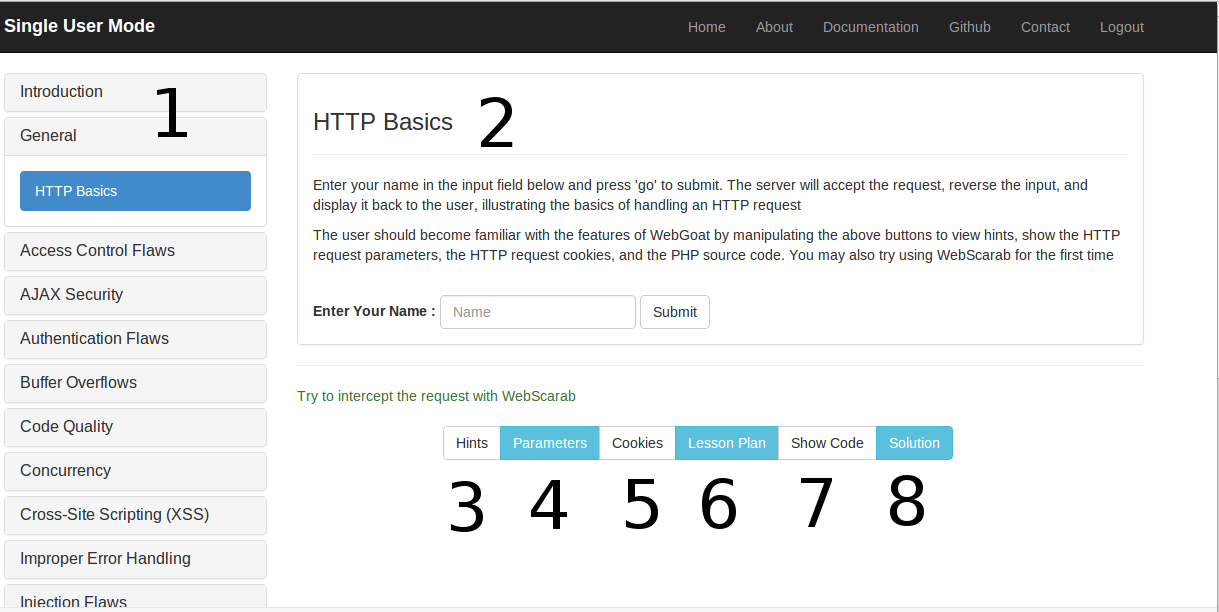
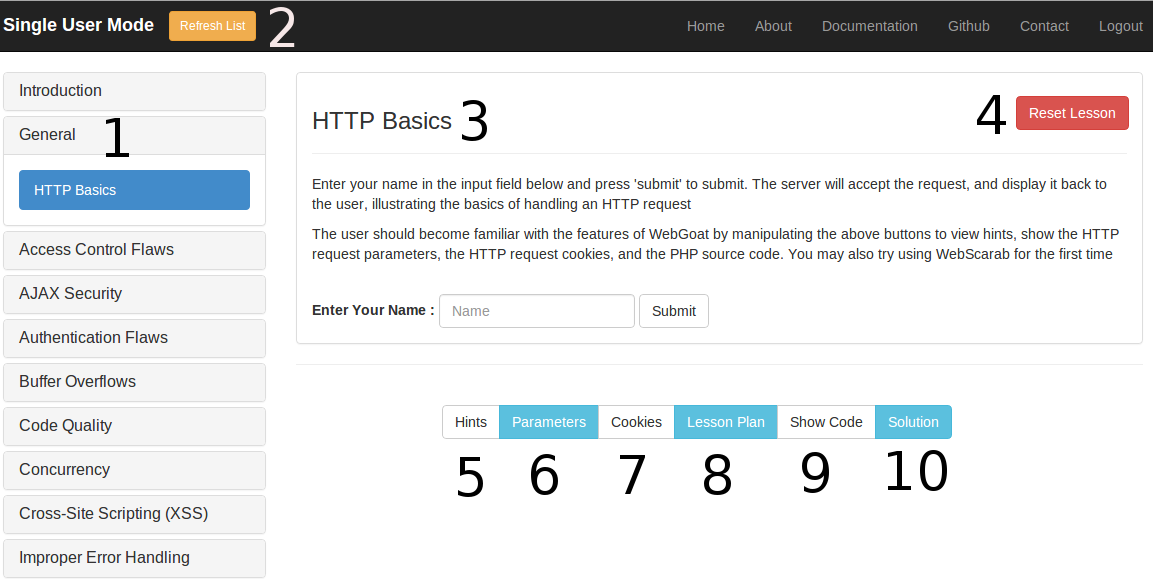
Updated interface of WebGoatPHP Introduction lesson

diff --git a/challenges/WebGoatIntro/content.html b/challenges/WebGoatIntro/content.html
@@ -8,18 +8,19 @@
 <img src="static/interface.png" alt="WebGoatPHP Interface" class="img-responsive">
 
 <br>
-<p>1. List of all the lesson categories and lessons.</p>
-<p>2. Content of the lesson</p>
-<p>3. Get random hints of the lesson</p>
-<p>4. This will show GET parameters</p>
-<p>5. This will show the COOKIES</p>
-<p>6. Get the plan of the lesson</p>
-<p>7. Get the source code of the lesson</p>
-<p>8. This will show the solution of the lesson</p>
+<p><strong>1.</strong> List of all the lessons and their categories.</p>
+<p><strong>2.</strong> To refresh the list of lessons and categories (if a new lesson/category is added)</p>
+<p><strong>3.</strong> Content of the lesson</p>
+<p><strong>4.</strong> Reset the lesson to inital state</p>
+<p><strong>5.</strong> Get random hints of the lesson</p>
+<p><strong>6.</strong> This will show GET parameters</p>
+<p><strong>7.</strong> This will show the COOKIES</p>
+<p><strong>8.</strong> Get the plan of the lesson</p>
+<p><strong>9.</strong> Get the source code of the lesson</p>
+<p><strong>10.</strong> This will show the solution of the lesson</p>
 <br>
-<h4>Solve the Lesson</h4>
+<h4>Solving a Lesson</h4>
 <p>Always start with the lessons plan. Then try to solve the lesson and if necessary, use the hints.
     The last hint is the solution text if applicable. If you cannot solve the lesson using the hints,
     you may view the solution for complete details.</p>
-<br>
-<h3 class="text-success">Welcome to WebGoatPHP !!</h3>
+<h3 class="text-muted">Welcome to WebGoatPHP !!</h3>
